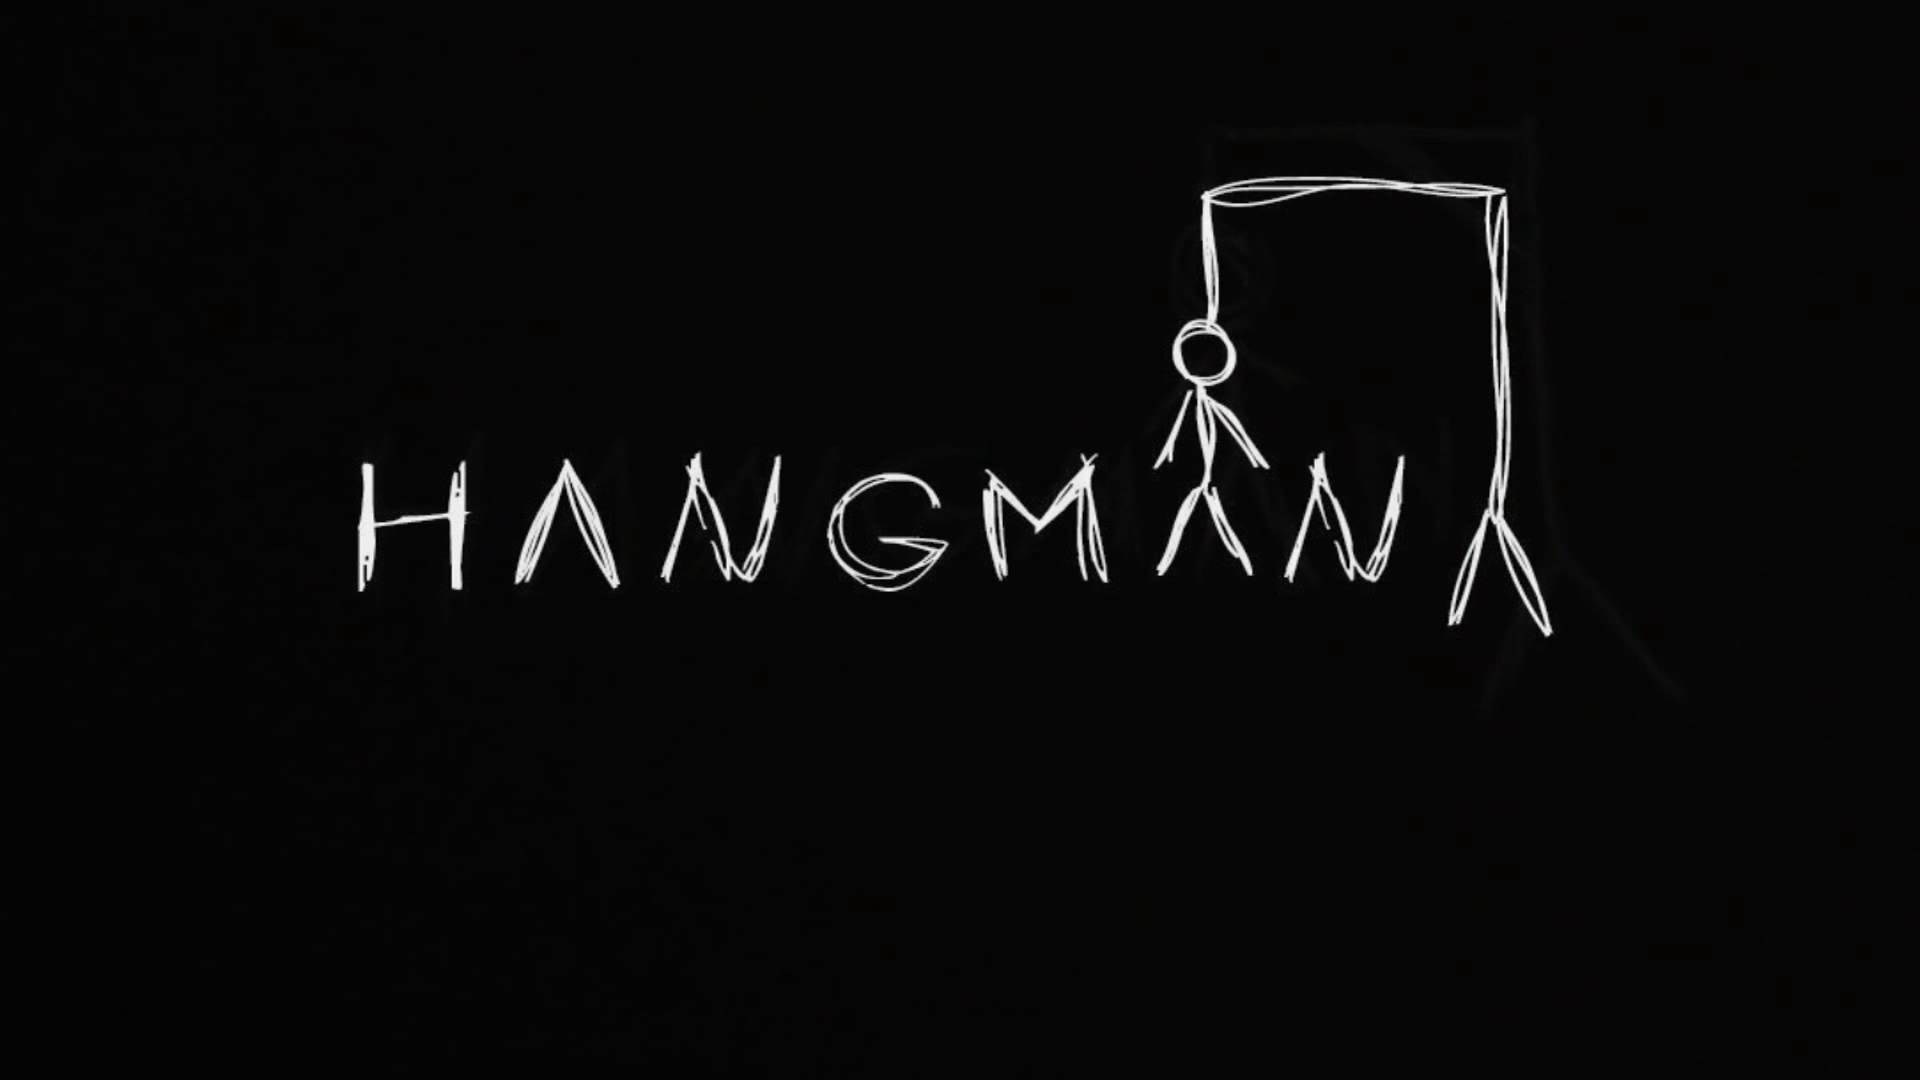
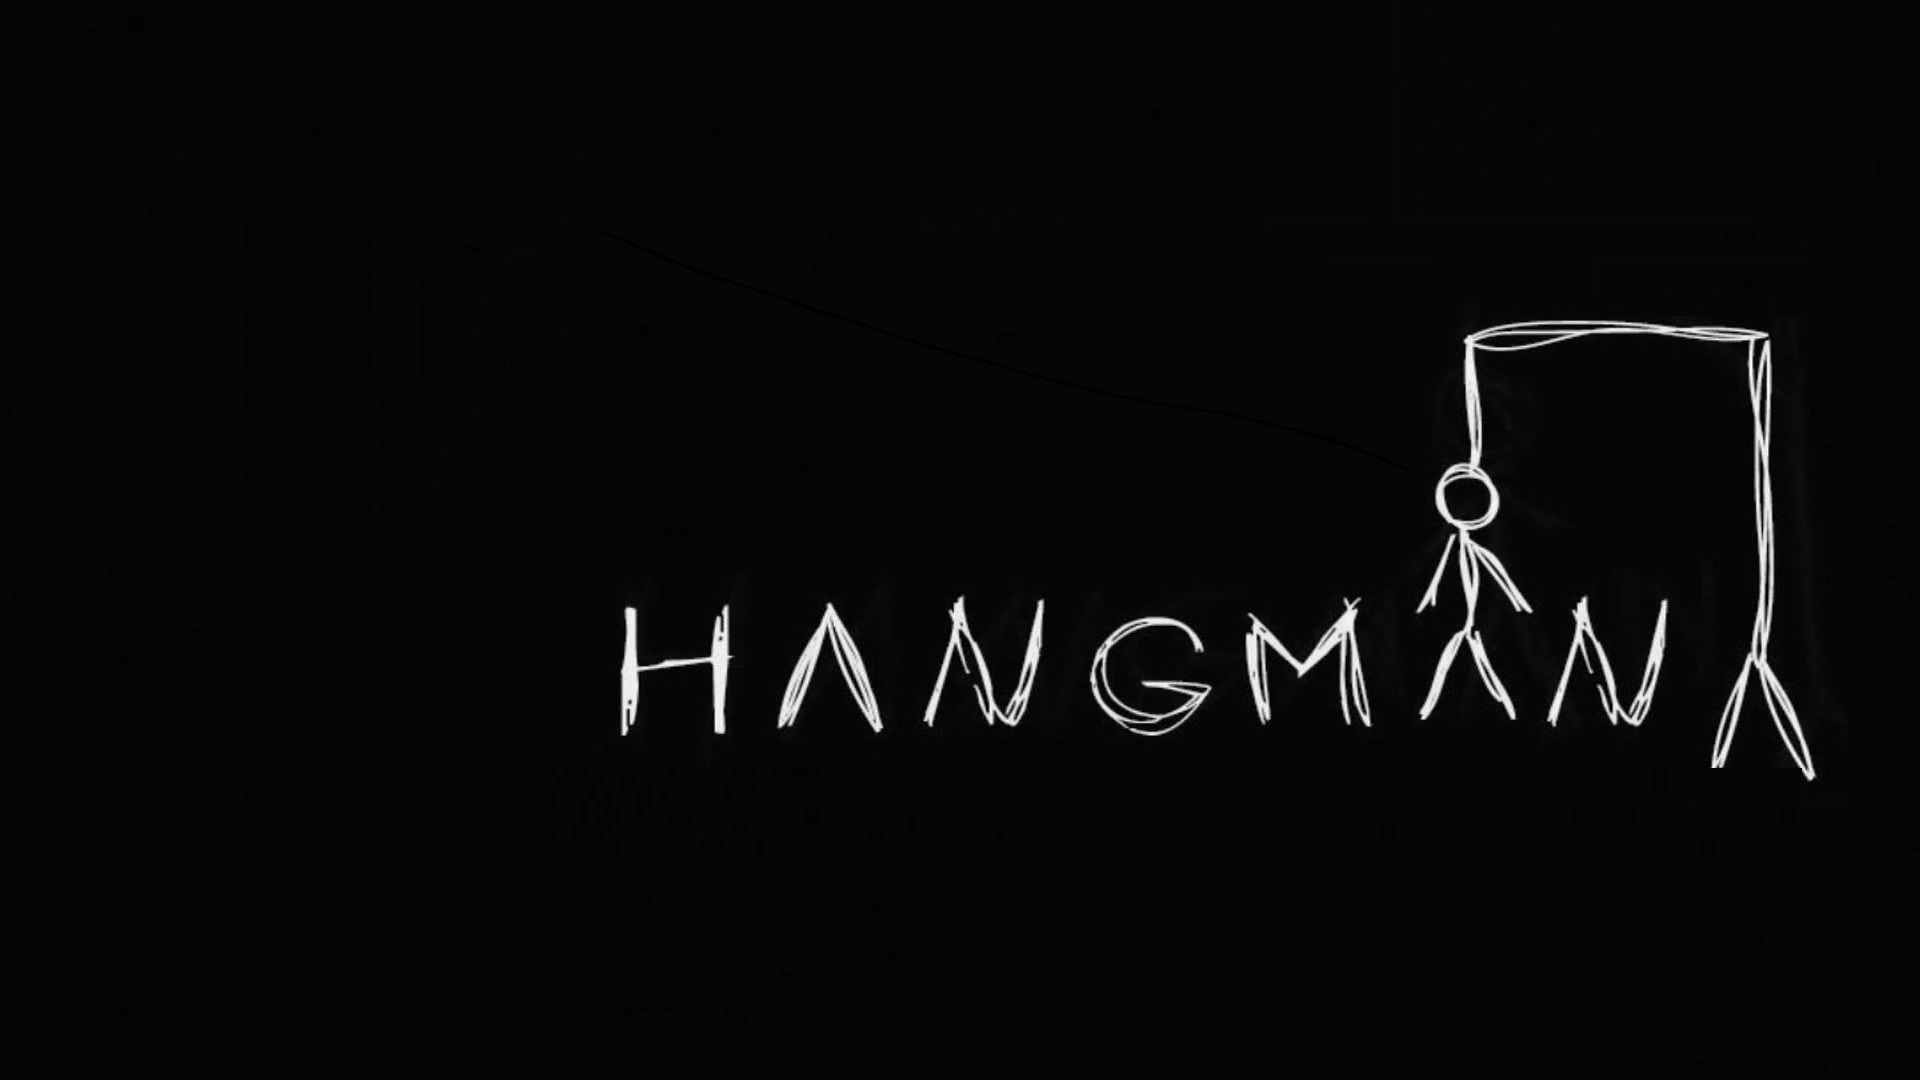
game finished some css updated and a few code is added

Changed region(s): [[0.1875, 0.1528, 0.9688, 0.7333]]

diff --git a/Hangman/CSS/styles.css b/Hangman/CSS/styles.css
@@ -10,6 +10,7 @@ body {
     display: inline-block;
     padding: 10px;
     font-size: 45px;
+    padding-bottom: 100px;
 }
 
 
@@ -23,6 +24,7 @@ body {
     clear: both;
 }
 
+
 canvas {
     color: #fff;
     border: #fff dashed 2px;
@@ -34,7 +36,7 @@ h1, h2, h3 {
     font-weight: 100;
     text-transform: uppercase;
     margin: 5px 0;
-    color: #3e06d7;
+    color: #a0eeb3;
 }
 
 h1 {
@@ -120,6 +122,7 @@ p {
 }
 
 #mylives {
+    margin-top: 180px;
     font-size: 1.6em;
     text-align: center;
     display: block;
@@ -130,7 +133,7 @@ button {
     -webkit-border-radius: 5px;
     border-radius: 5px;
     -khtml-border-radius: 5px;
-    background: #5956d7;
+    background: #a0eeb3;
     color: #fff;
     border: solid 1px #fff;
     text-decoration: none;
@@ -154,6 +157,9 @@ button:hover {
     #alphabet {
         padding: 0 0 0 15px;
     }
+}
+#reset ,#hint{
+    color: black;
 }
 @media (max-width: 480px) {
     #alphabet {

diff --git a/Hangman/JavaScript/script.js b/Hangman/JavaScript/script.js
@@ -130,8 +130,9 @@ window.onload = function () {
 
         }
     }
-    
+
     guess();
+    selectedCat();
     play();
 
 }
